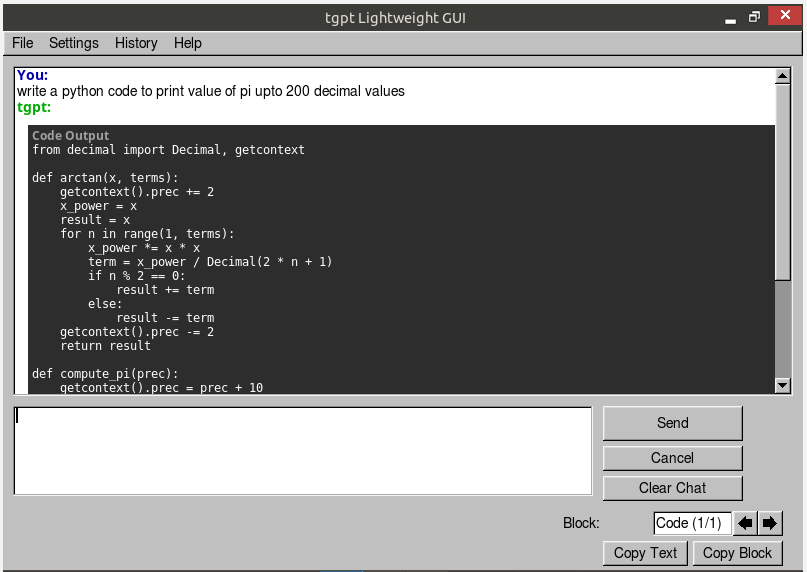
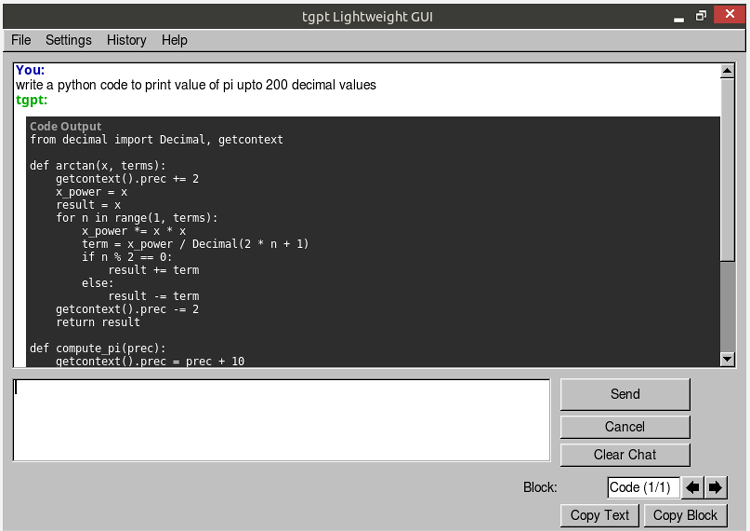
Release 1.0.9

diff --git a/src/Globals.cpp b/src/Globals.cpp
@@ -57,7 +57,7 @@ std::string current_history_filepath = "";
 
 
 // Settings State
-const std::string APP_VERSION = "1.0.8";
+const std::string APP_VERSION = "1.0.9";
 std::string tgpt_provider = "";
 std::string tgpt_model = "";
 std::string tgpt_api_key = "";
